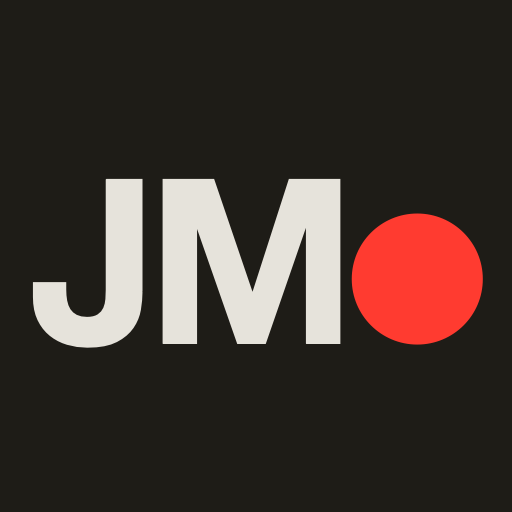
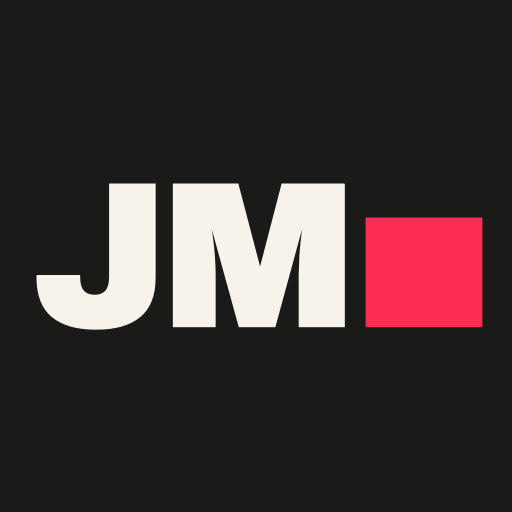
Twelve shapes with a wider vocabulary, and square the mark everywhere
THE FIELD GOES 9 -> 12, and the three new ones are new SHAPES rather
than more circles. Three more of what was already there would have been
more of the same rather than more to look at.

  arc    an open 270-degree ring. It rhymes with the seam form in
         .work::before - the same figure at two scales - which is what
         makes that a motif instead of one decorative lump at the
         bottom of the page. The only shape that needs a <path>:
         createSvgShape now takes { points } or { d }, because an arc
         faked from a polygon shows its facets at 110px.
  bar    the only shape in the field with a dominant axis, and the
         field had none. Everything else is as wide as it is tall, so
         nothing echoed the two hardest lines on the page - the marquee
         band and the 4px rule under each section head. stroke: 0,
         since it is a 16-unit rectangle in a 100 box and the default 5
         would swell it by two thirds.
  cross  shares the bar's arm weight, so the two flat shapes belong to
         each other.

The band structure is what absorbed the extra three without the result
reading as denser-but-random: three bands of four now, each holding a
left, a centre-left, a centre-right and a right.

    y .195 .22  .24  .27    x .11 .34 .60 .86   top of the name
    y .41  .44  .46  .47    x .52 .07 .95 .31   its foot
    y .745 .78  .86  .90    x .90 .15 .66 .40   the seam
[…]

Changed region(s): [[0.0625, 0.3438, 0.9688, 0.6875]]

diff --git a/script.js b/script.js
@@ -1513,7 +1513,14 @@ if (heroShapesContainer) {
     return pts.join(' ');
   }
 
-  function createSvgShape(def, points) {
+  /* All the SVG-drawn shapes go through here. `geom` is either
+     { points } for a polygon or { d } for a path - the arc is the only one
+     that needs a path, because an arc is not a closed run of straight
+     lines and faking one with a polygon would show its facets at 110px.
+     `stroke` overrides the default width, which the bar needs: it is a
+     16-unit-tall rectangle in a 100 box, and the standard 5 would swell it
+     by 10 units, two thirds thicker than drawn. */
+  function createSvgShape(def, geom) {
     const svg = document.createElementNS(SVG_NS, 'svg');
     svg.setAttribute('viewBox', '0 0 100 100');
     svg.style.width = def.size + 'px';
@@ -1521,22 +1528,51 @@ if (heroShapesContainer) {
     svg.classList.add('shape', `shape-${def.type}`);
     if (def.vivid) svg.classList.add('is-vivid');
     svg.style.color = def.color;
-    const poly = document.createElementNS(SVG_NS, 'polygon');
-    poly.setAttribute('points', points);
-    poly.style.fill = def.filled ? 'currentColor' : 'none';
-    poly.style.stroke = 'currentColor';
-    poly.style.strokeWidth = def.type === 'star' ? '3' : '5';
-    svg.appendChild(poly);
+    const node = document.createElementNS(SVG_NS, geom.d ? 'path' : 'polygon');
+    if (geom.d) node.setAttribute('d', geom.d);
+    else node.setAttribute('points', geom.points);
+    node.style.fill = def.filled ? 'currentColor' : 'none';
+    node.style.stroke = 'currentColor';
+    node.style.strokeWidth = String(
+      def.stroke !== undefined ? def.stroke : (def.type === 'star' ? 3 : 5)
+    );
+    svg.appendChild(node);
     return svg;
   }
 
   function createShapeEl(def) {
     if (def.type === 'triangle') {
-      return createSvgShape(def, '50,6 94,94 6,94');
+      return createSvgShape(def, { points: '50,6 94,94 6,94' });
     }
     if (def.type === 'star') {
       const spikes = def.spikes || 6;
-      return createSvgShape(def, starPoints(spikes, 48, def.sharp ? 14 : 22, 50, 50));
+      return createSvgShape(def, { points: starPoints(spikes, 48, def.sharp ? 14 : 22, 50, 50) });
+    }
+    /* An open ring, 270 degrees, starting top-left and sweeping clockwise
+       to bottom-right. Both endpoints are on the r=42 circle: 50-42cos45 =
+       20.3, and the large-arc flag has to be 1 because the sweep is over
+       180. It exists to tie the field to the seam ring in styles.css -
+       that is the same figure at structural scale, and having the motif
+       appear twice at two sizes is what makes it read as a motif rather
+       than as one decorative lump at the bottom of the page. Open rather
+       than closed so it is not just a second circle. */
+    if (def.type === 'arc') {
+      return createSvgShape(def, { d: 'M20.3,20.3 A42,42 0 1 1 79.7,79.7' });
+    }
+    /* A flat rule. The only shape in the field with a dominant axis, and
+       the field needed one: circles, squares, triangles and stars are all
+       roughly as wide as they are tall, so nothing echoed the two hardest
+       lines on the page - the marquee band and the 4px rule under every
+       section head. Drawn, not stroked, hence stroke: 0. */
+    if (def.type === 'bar') {
+      return createSvgShape(def, { points: '0,42 100,42 100,58 0,58' });
+    }
+    /* A plus. 26 units of arm thickness, which is the same weight as the
+       bar, so the two new flat shapes belong to each other. */
+    if (def.type === 'cross') {
+      return createSvgShape(def, {
+        points: '37,6 63,6 63,37 94,37 94,63 63,63 63,94 37,94 37,63 6,63 6,37 37,37',
+      });
     }
     const el = document.createElement('div');
     el.className = `shape shape-${def.type} ${def.filled ? 'filled' : 'outline'}`
@@ -1618,18 +1654,20 @@ if (heroShapesContainer) {
      and must not come back, see CLAUDE.md. This sets where a shape lives,
      not where it is allowed to go. */
   const smoothDefs = [
-    { type: 'circle',   size: 90,  color: 'var(--accent)',      filled: false, at: [0.82, 0.21] },
-    { type: 'square',   size: 70,  color: 'var(--blue)',        filled: true,  vivid: true, at: [0.95, 0.45] },
-    { type: 'triangle', size: 48,  color: 'var(--accent-warm)', filled: true,  vivid: true, at: [0.70, 0.88] },
-    { type: 'circle',   size: 50,  color: 'var(--black)',       filled: true,  at: [0.40, 0.49] },
     { type: 'square',   size: 104, color: 'var(--accent)',      filled: false, at: [0.11, 0.195] },
-    { type: 'triangle', size: 80,  color: 'var(--blue)',        filled: true,  at: [0.14, 0.42] },
-    { type: 'circle',   size: 36,  color: 'var(--accent-warm)', filled: true,  at: [0.44, 0.26] },
-    /* the only filled coral in light mode, and one of the smallest of the
-       nine: a solid 45px coral square is the one object in the field that
-       is allowed to look like a deliberate mark rather than drift */
-    { type: 'square',   size: 45,  color: 'var(--accent)',      filled: true,  vivid: true, at: [0.25, 0.86] },
-    { type: 'circle',   size: 104, color: 'var(--blue)',        filled: false, at: [0.88, 0.745] },
+    { type: 'circle',   size: 104, color: 'var(--blue)',        filled: false, at: [0.90, 0.745] },
+    { type: 'circle',   size: 90,  color: 'var(--accent)',      filled: false, at: [0.86, 0.24] },
+    { type: 'arc',      size: 86,  color: 'var(--accent)',      filled: false, at: [0.60, 0.22] },
+    { type: 'triangle', size: 80,  color: 'var(--blue)',        filled: true,  at: [0.07, 0.44] },
+    { type: 'bar',      size: 72,  color: 'var(--blue)',        filled: true,  stroke: 0, rot: -4, spin: 0.1, at: [0.40, 0.90] },
+    { type: 'square',   size: 70,  color: 'var(--blue)',        filled: true,  vivid: true, at: [0.95, 0.46] },
+    { type: 'circle',   size: 50,  color: 'var(--black)',       filled: true,  at: [0.52, 0.41] },
+    { type: 'triangle', size: 48,  color: 'var(--accent-warm)', filled: true,  vivid: true, at: [0.66, 0.86] },
+    /* the only filled coral in light mode: a solid 45px coral square is the
+       one object in the field allowed to look like a deliberate mark */
+    { type: 'square',   size: 45,  color: 'var(--accent)',      filled: true,  vivid: true, at: [0.15, 0.78] },
+    { type: 'cross',    size: 40,  color: 'var(--black)',       filled: true,  stroke: 0, at: [0.31, 0.47] },
+    { type: 'circle',   size: 36,  color: 'var(--accent-warm)', filled: true,  vivid: true, at: [0.34, 0.27] },
   ];
 
   /* Same nine-shape budget in dark, and the neons stay neon: this half of
@@ -1653,15 +1691,18 @@ if (heroShapesContainer) {
      wearing different shapes. Before, every switch re-rolled nine random
      positions and the field visibly jumped to a new scatter mid-wipe. */
   const jaggedDefs = [
-    { type: 'star', size: 95,  color: 'var(--accent)',      filled: false, spikes: 7, sharp: true, at: [0.82, 0.21] },
-    { type: 'star', size: 65,  color: 'var(--blue)',        filled: true,  spikes: 5, sharp: true, vivid: true, at: [0.95, 0.45] },
-    { type: 'star', size: 55,  color: 'var(--highlight)',   filled: false, spikes: 8, sharp: true, at: [0.44, 0.26] },
-    { type: 'star', size: 40,  color: 'var(--accent-warm)', filled: true,  spikes: 6, sharp: true, at: [0.70, 0.88] },
     { type: 'star', size: 110, color: 'var(--accent)',      filled: false, spikes: 6, sharp: true, at: [0.11, 0.195] },
-    { type: 'star', size: 80,  color: 'var(--blue)',        filled: false, spikes: 9, sharp: true, at: [0.14, 0.42] },
-    { type: 'star', size: 60,  color: 'var(--highlight)',   filled: true,  spikes: 5, sharp: true, at: [0.40, 0.49] },
-    { type: 'star', size: 34,  color: 'var(--accent)',      filled: true,  spikes: 5, sharp: true, vivid: true, at: [0.25, 0.86] },
-    { type: 'star', size: 110, color: 'var(--blue)',        filled: false, spikes: 6, sharp: true, at: [0.88, 0.745] },
+    { type: 'star', size: 110, color: 'var(--blue)',        filled: false, spikes: 6, sharp: true, at: [0.90, 0.745] },
+    { type: 'star', size: 95,  color: 'var(--accent)',      filled: false, spikes: 7, sharp: true, at: [0.86, 0.24] },
+    { type: 'arc',  size: 86,  color: 'var(--blue)',        filled: false, at: [0.60, 0.22] },
+    { type: 'star', size: 80,  color: 'var(--blue)',        filled: false, spikes: 9, sharp: true, at: [0.07, 0.44] },
+    { type: 'bar',  size: 72,  color: 'var(--highlight)',   filled: true,  stroke: 0, rot: -4, spin: 0.1, at: [0.40, 0.90] },
+    { type: 'star', size: 65,  color: 'var(--blue)',        filled: true,  spikes: 5, sharp: true, vivid: true, at: [0.95, 0.46] },
+    { type: 'star', size: 60,  color: 'var(--highlight)',   filled: true,  spikes: 5, sharp: true, at: [0.52, 0.41] },
+    { type: 'star', size: 55,  color: 'var(--highlight)',   filled: false, spikes: 8, sharp: true, at: [0.66, 0.86] },
+    { type: 'star', size: 34,  color: 'var(--accent)',      filled: true,  spikes: 5, sharp: true, vivid: true, at: [0.15, 0.78] },
+    { type: 'cross', size: 44, color: 'var(--accent)',      filled: true,  stroke: 0, at: [0.31, 0.47] },
+    { type: 'star', size: 40,  color: 'var(--accent-warm)', filled: true,  spikes: 6, sharp: true, at: [0.34, 0.27] },
   ];
 
   /* Where a shape sits at a given moment, with no cursor and no chaos in it.
@@ -1744,11 +1785,21 @@ if (heroShapesContainer) {
         wobbleSpeed: 0.75 + 0.5 * ((i * 0.37) % 1),
         /* alternating, not signed at random: a field where the spin
            directions happen to agree reads as a single rotating system.
-           Small spins faster, same reasoning as the travel. */
-        rotSpeed: (i % 2 ? 1 : -1) * (5 + 20 * t) * (isDark ? 1.7 : 1),
-        // spread round the circle, deterministic, so squares and triangles
-        // each present a different edge - a repeatable 47 degrees apart
-        rotation: (i * 47) % 360,
+           Small spins faster, same reasoning as the travel.
+           `spin` scales it per shape, and the bar is the reason it exists:
+           at the standard rate a 72px rule turns a full circle every 24
+           seconds, so most of the time it is a diagonal, and a diagonal bar
+           is just a stick. The whole job of that shape is to rhyme with the
+           two hardest horizontals on the page - the marquee band and the 4px
+           rule under each section head - so it holds near level and creeps.
+           Not pinned to 0: a rule that never moves while eleven things drift
+           around it reads as a bit of furniture someone forgot to animate. */
+        rotSpeed: (i % 2 ? 1 : -1) * (5 + 20 * t) * (isDark ? 1.7 : 1)
+          * (def.spin !== undefined ? def.spin : 1),
+        /* spread round the circle, deterministic, so squares and triangles
+           each present a different edge - a repeatable 47 degrees apart.
+           `rot` overrides it where the angle IS the shape. */
+        rotation: def.rot !== undefined ? def.rot : (i * 47) % 360,
         offsetX: 0,
         offsetY: 0,
       };

diff --git a/styles.css b/styles.css
@@ -624,8 +624,13 @@ body.is-loading { overflow: hidden; }
    wordmark. */
 .nav-logo .dot {
   display: inline-block;
-  width: 0.34em; height: 0.34em;
-  border-radius: 50%;
+  /* A SQUARE, because the mark it repeats is a square: Archivo Black draws
+     its full stop as a very slightly wide rectangle, 42.4 x 39.8 measured
+     at 200px, so the ratio here is 1.065 and not 1. 0.34em against the
+     logo's 1.4rem is 7.6 x 7.1px. Deliberately larger than a literal
+     period at this size would be (22.4 x .199em = 4.5px, which disappears)
+     - this is the mark as a graphic, the same way the favicon's is. */
+  width: 0.34em; height: 0.319em;
   background: var(--accent);
   margin-left: 0.1em;
 }
@@ -1016,7 +1021,17 @@ body.is-loading { overflow: hidden; }
   border: none;
 }
 .shape-circle { border-radius: 50%; }
-.shape-triangle {
+/* Every SVG-drawn shape, not just the triangle. transform-box: fill-box
+   makes the JS rotate() turn the shape about its own ink rather than about
+   whatever origin an <svg> box would otherwise give, and overflow: visible
+   stops a stroke being clipped at the viewBox edge.
+   The arc, the bar and the cross were added to this list the moment they
+   existed: leave one out and it orbits instead of spinning, which looks
+   like a bug in the drift rather than a rotation origin. */
+.shape-triangle,
+.shape-arc,
+.shape-bar,
+.shape-cross {
   overflow: visible;
   transform-box: fill-box;
   transform-origin: center;

diff --git a/CLAUDE.md b/CLAUDE.md
@@ -330,7 +330,7 @@ four languages whenever you size display type.**
 - 13 `prefers-reduced-motion` blocks; the global one kills durations.
 - Marquee runs at a **fixed 55 px/second** (`setupSeamlessMarquee` derives the
   duration from content width), so resizing the type doesn't change its speed.
-- Hero shapes: 9 per theme, drift on **two sine terms per axis** (one sine
+- Hero shapes: 12 per theme, drift on **two sine terms per axis** (one sine
   traces a clean ellipse and reads as clockwork). Opacity in CSS, not JS —
   `.38` light / `.62` dark with a `drop-shadow` glow, both dialled back ≤760px.
   Behind `.hero-grid` (z 0 vs 2) and `pointer-events: none`.
@@ -372,14 +372,17 @@ four languages whenever you size display type.**
   overlap into a blob and a quadrant sits empty — and because it re-rolled on
   every load and every theme switch there was no arrangement to judge, let
   alone tune. Each def now carries `at: [x, y]`, its resting centre as a
-  fraction of the field box, and the nine are **three bands of three**, each
-  band holding a left, a centre and a right:
-  y .195/.21/.26 across the top of the name, y .42/.45/.49 across its foot,
-  y .745/.86/.88 down in the seam. Measured against the real hero at 1440,
+  fraction of the field box, and the twelve are **three bands of four**, each
+  band holding a left, a centre-left, a centre-right and a right:
+  y .195/.22/.24/.27 across the top of the name, y .41/.44/.46/.47 across its
+  foot, y .745/.78/.86/.90 down in the seam. It went 9 → 12 on 2026-11-10
+  on Jack's note that the field still wanted more; the band structure is what
+  absorbed the three extra without the result reading as denser-but-random.
+  Measured against the real hero at 1440,
   where the box is 1440×1026: nav ends at .092, name .184–.499, side column
   .236–.499, marquee strip .579–.640, SELECTED PROJECTS .702–.875, filters
   .914–1.002.
-  **Both themes use the SAME nine slots**, assigned biggest-to-biggest, so the
+  **Both themes use the SAME twelve slots**, assigned biggest-to-biggest, so the
   theme switch — which rebuilds the field inside the view-transition callback
   — reveals the same composition wearing different shapes instead of jumping
   to a fresh scatter mid-wipe.
@@ -393,6 +396,39 @@ four languages whenever you size display type.**
   **This is not a keep-out.** Nothing clamps at runtime; shapes still drift
   over the name, the column, the nav and the marquee and must keep being
   allowed to. It sets where a shape LIVES, not where it may go.
+  **Do the envelope arithmetic, do not eyeball it.** Every one of those rules
+  was broken on a first pass and only caught in a screenshot. The reusable
+  check is: reconstruct `t`, `ampX`, `ampY` and the wobble exactly as
+  `buildShapes` does, add the half-size, and test the resulting rectangle
+  against the landmarks — nav `y < .092`, and the full stop's CENTRE at
+  (.6555, .42). Centre, not box: a shape may brush past the mark, it may not
+  park on it.
+- **The vocabulary is circle, square, triangle, arc, bar and cross** in light,
+  and the same three new ones beside nine jagged stars in dark. The arc, bar
+  and cross arrived with the move to twelve, because three more circles would
+  have been more of the same rather than more to look at. Each has a job:
+  the **arc** is an open 270° ring that rhymes with the seam form in
+  `.work::before` — the same figure at two scales, which is what makes it a
+  motif instead of one decorative lump at the bottom of the page; the **bar**
+  is the only shape with a dominant axis, and the field had none, so nothing
+  echoed the two hardest lines on the page (the marquee band and the 4px rule
+  under each section head); the **cross** shares the bar's arm weight so the
+  two flat shapes belong to each other.
+  The arc is the only one that needs a `<path>` — `createSvgShape` takes
+  `{ points }` or `{ d }` — because an arc faked from a polygon shows its
+  facets at 110px. The bar needs `stroke: 0`: it is a 16-unit-tall rectangle
+  in a 100 box, and the default 5 would swell it by two thirds.
+- **`rot` and `spin` are per-def overrides, and the bar is why they exist.**
+  At the standard rate a 72px rule turns a full circle every 24 seconds, so
+  most of the time it is a diagonal, and a diagonal bar is just a stick. It
+  carries `rot: -4, spin: 0.1` so it holds near level and creeps. Not pinned
+  at 0: a rule that never moves while eleven things drift around it reads as
+  furniture someone forgot to animate.
+- **Every SVG-drawn shape needs `transform-box: fill-box`** and
+  `overflow: visible` — `.shape-triangle, .shape-arc, .shape-bar,
+  .shape-cross` share one rule and `.shape-star` has its own. Leave a new
+  type off that list and it orbits instead of spinning, which reads as a bug
+  in the drift rather than a wrong rotation origin.
 - **Motion is derived from size**, also authored. `t = (110 - size) / 76` is 1
   for the smallest shape and 0 for the largest, and amplitude, speed, wobble
   and spin all come off it, so big forms barely move and read as structure
@@ -658,6 +694,30 @@ is most of the point.
   content, the bar is 3:1, and 3.21 passes. The span is empty and
   `aria-hidden`; the glyph was being announced as "black circle" after the J
   and the M. In dark both tokens are the same neon, so nothing changes there.
+- **The four icon files are the same mark again**, and they were the last
+  place the superseded palette survived: `favicon.svg` was still
+  `#1e1c17` / `#e6e3db` / `#ff3b30` and `site.webmanifest` still
+  `#e6e3db` on 2026-11-10, five days after the change. They are a dark slab
+  in both themes, like the marquee and pong, so they wear the DARK palette —
+  `#1A1A18` ground, `#F7F3EB` type, `#ff2d55` mark.
+  Squaring the mark forced a reflow of the whole chip: at 28.8px the ink of
+  "JM" ends at x 47.07 and the mark used to start at 44, so it overlapped the
+  M by 3 units. A circle got away with that because only its tangent point
+  reached that far; a square reads as a collision. The type came down to 26px
+  (ink ends at 43.07), the mark starts 2.6 further on — 0.1em, the same gap
+  `.nav-logo .dot` carries — and ends at 60.3, leaving 3.7 of right margin
+  against 4.0 on the left. The square is 14.6 wide against the old circle's
+  16.4 diameter because a square carries more optical weight inside the same
+  box.
+  **To regenerate the PNGs**, write a copy of the SVG with
+  `assets/fonts/archivo-black-latin.woff2` inlined as a data: URI @font-face
+  (the shipped favicon must NOT carry it — it would add 13KB to a 1KB file),
+  then `qlmanage -t -s 512 -o <dir> <file>.svg` and `sips -z N N` down to
+  192 and 180. Quick Look letterboxes anything it renders below ~512, so
+  render once at 512 and scale down; do not ask it for the small sizes.
+  There is no sharp and no rsvg on this machine. Verify by sampling pixels,
+  not by looking: the bounding-box CORNER of the mark reads `#FF2D55` for a
+  square and the background colour for a circle.
 - **The card hover is small on purpose.** `translate(-4px, -6px)` and an 8px
   shadow. It was `-7px, -14px` on an 18px shadow and Jack rejected it: a card
   that lifts 14px stops being part of its row, which is a lot of movement to
